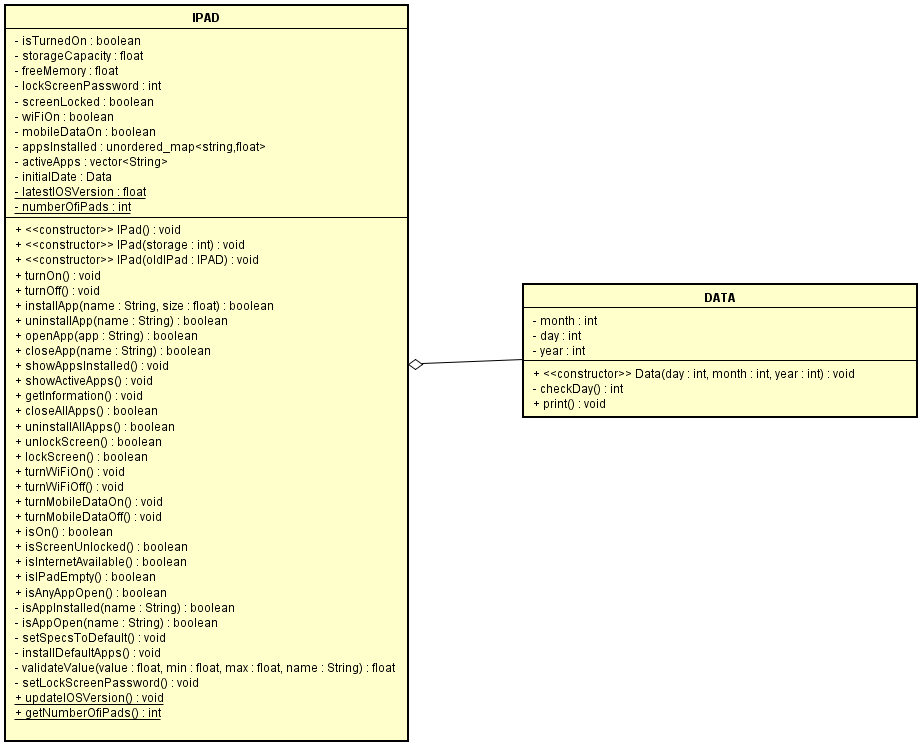
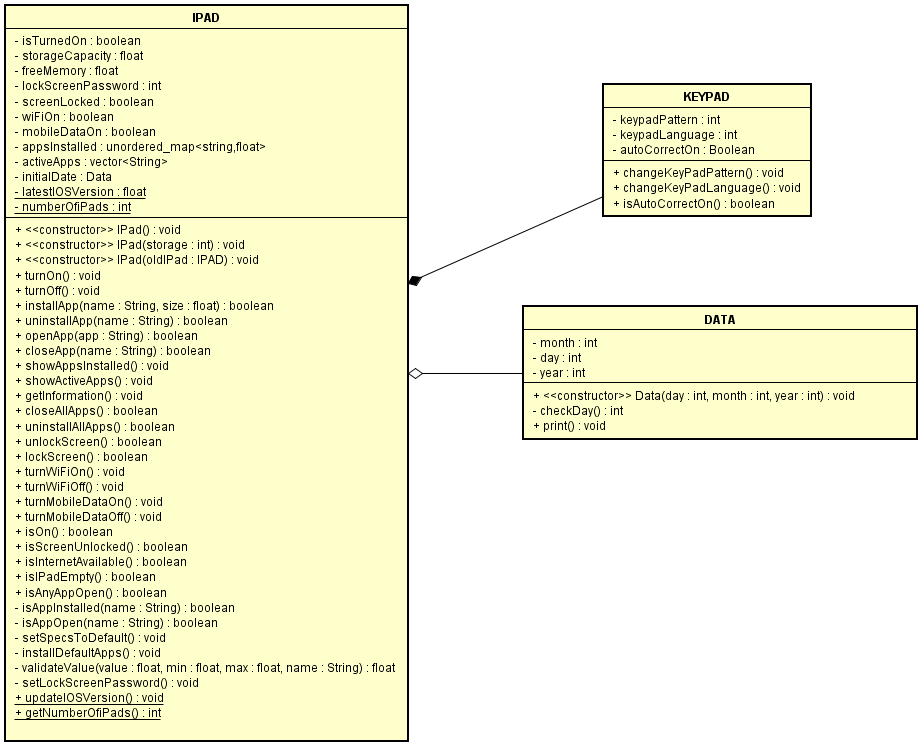
Projeto Atualizado
Classe Keypad adicionada no Diagrama UML.

Changed region(s): [[0.5455, 0.37, 1.0, 0.6166], [0.6364, 0.0925, 0.8788, 0.3083], [0.4242, 0.37, 0.4545, 0.4008]]

diff --git a/iPad/IPad.cpp b/iPad/IPad.cpp
@@ -44,7 +44,7 @@ IPad::IPad(const IPad &oldIPad)
     mobileDataOn = oldIPad.mobileDataOn;
     appsInstalled = oldIPad.appsInstalled;
     activeApps = oldIPad.activeApps;
-    
+
     numberOfiPads++;
 }
 
@@ -223,7 +223,7 @@ void IPad::getInformation() const
     cout << "\n>> STORAGE CAPACITY = " << storageCapacity << "GB";
     cout << "\n>> FREE MEMORY = " << freeMemory << "GB";
     cout << "\n>> iOS VERSION = " << latestIOSVersion;
-    initialDate.print();
+    InitialDate.print();
     cout << "\n>> NUM OF APPS INSTALLED = " << appsInstalled.size();
     cout << "\n>> NUM OF ACTIVE APPS = " << activeApps.size();
     cout << "\n\n";
@@ -427,6 +427,7 @@ void IPad::setSpecsToDefault()
     screenLocked = false;
     wiFiOn = true;
     mobileDataOn = false;
+    Data InitialDate(17, 2, 2016);
 }
 
 void IPad::installDefaultApps()

diff --git a/iPad/IPad.h b/iPad/IPad.h
@@ -128,7 +128,7 @@ private:
     vector<string> activeApps;
     static float latestIOSVersion;
     static int numberOfiPads;
-    const Data initialDate;
+    const Data InitialDate;
     
     /** HELPER FUNCTIONS
      * 
